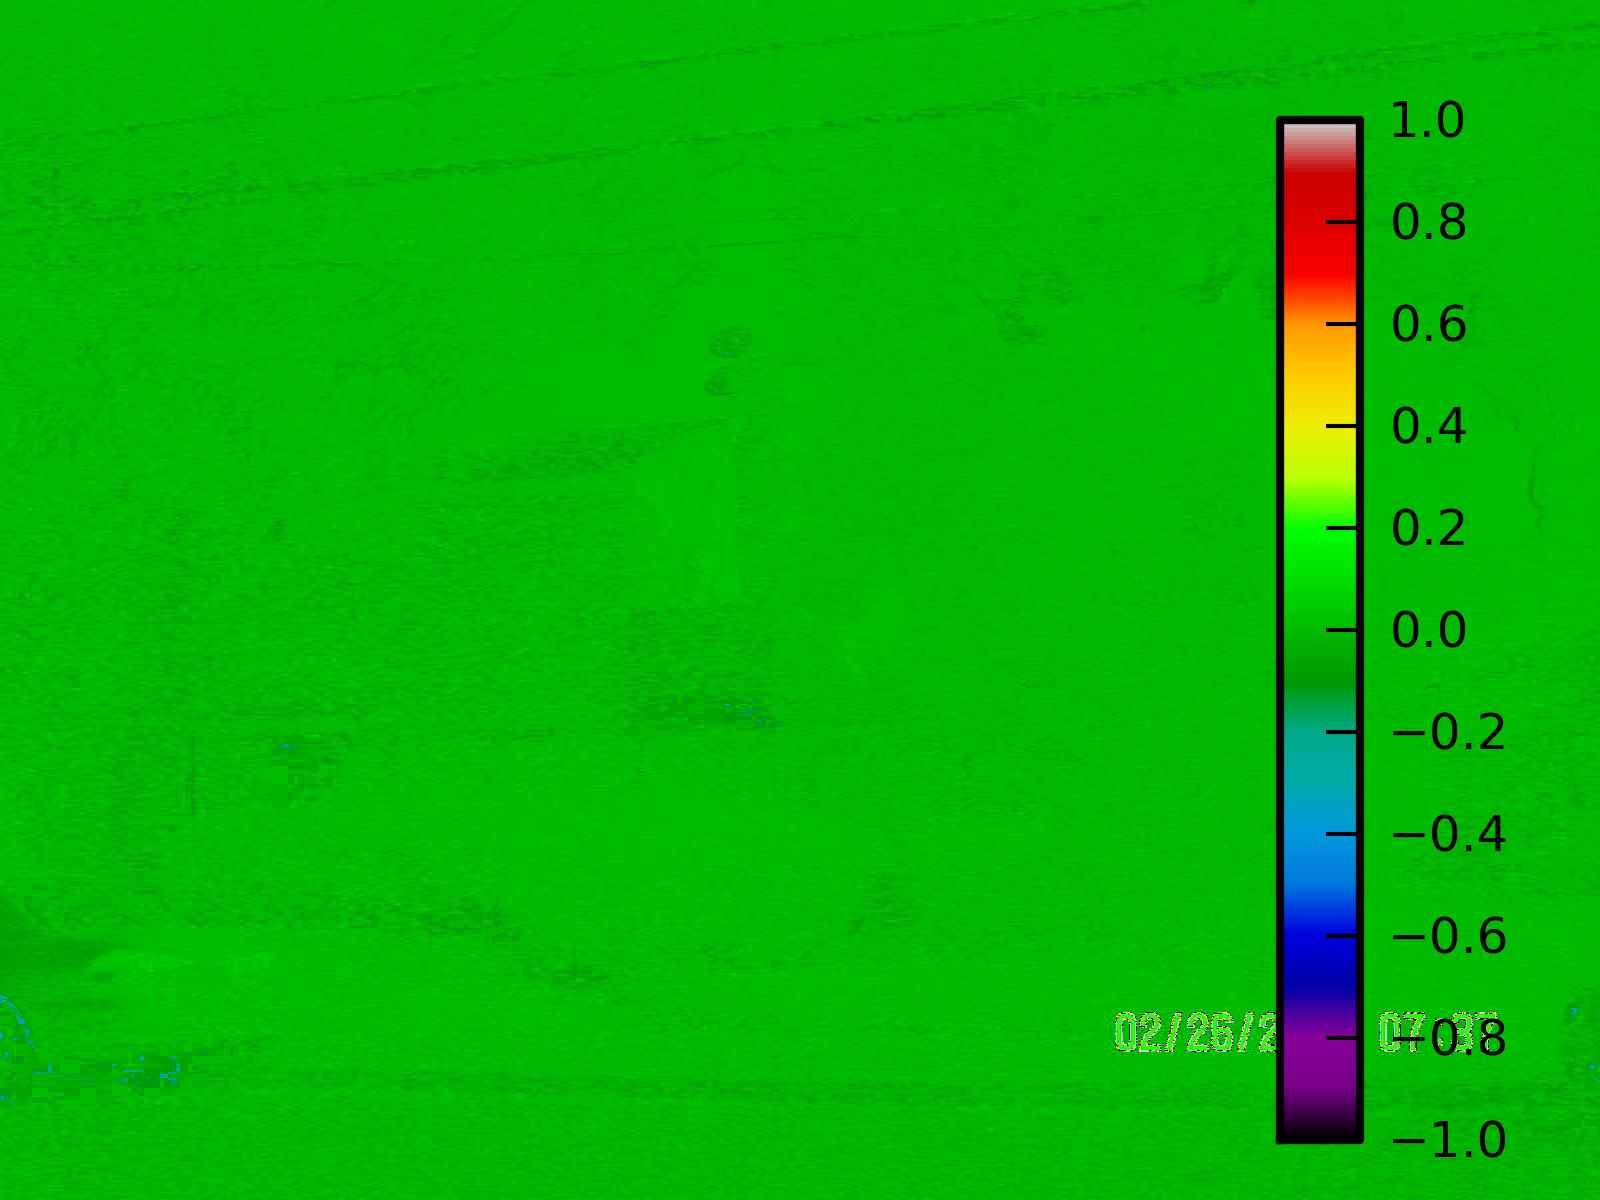
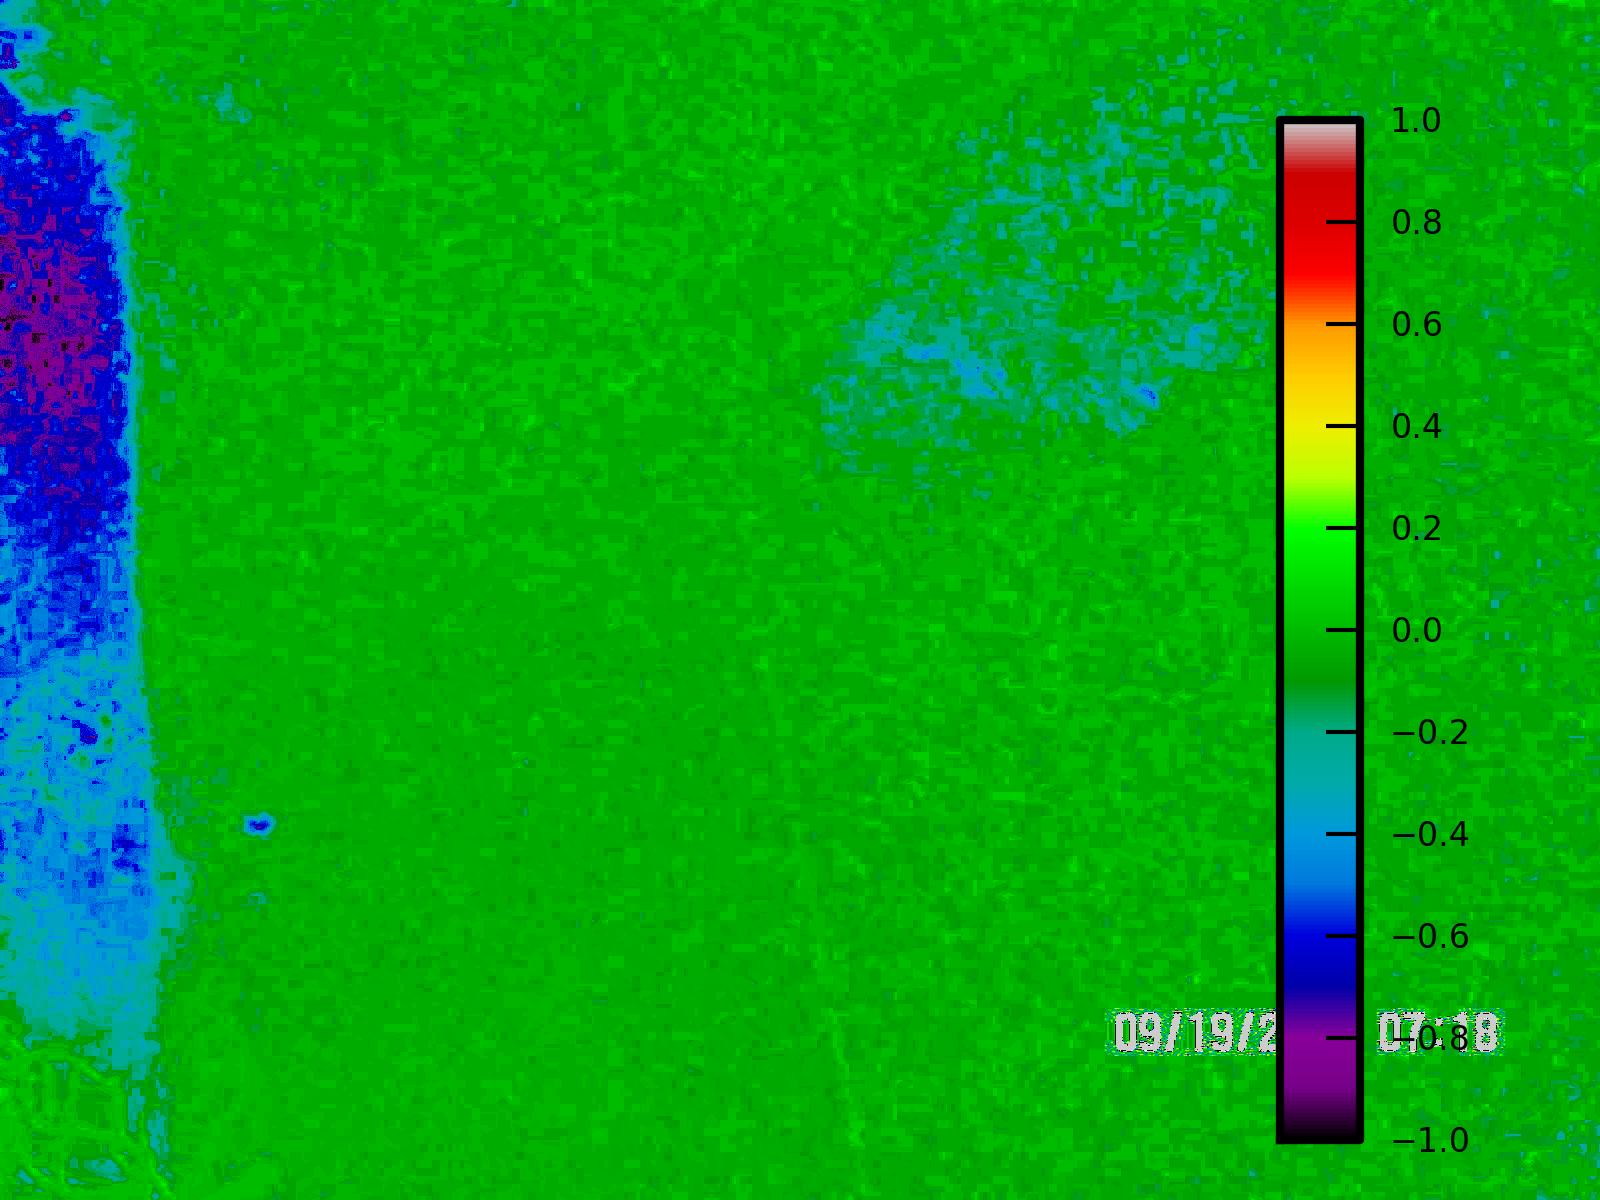
pictures

diff --git a/pipeline/pipeline.py b/pipeline/pipeline.py
@@ -18,5 +18,5 @@ for filename in files:
 
     #ndvi(fullpath, outpath, vmax=10, vmax=1000)
 
-    0cmd = 'infrapix_single -i "%s" -o "%s" --vmin 10 --vmax 10000' % (fullpath, outpath)
+    cmd = 'infrapix_single -i "%s" -o "%s" --vmin 10 --vmax 100' % (fullpath, outpath)
     os.system(cmd)
